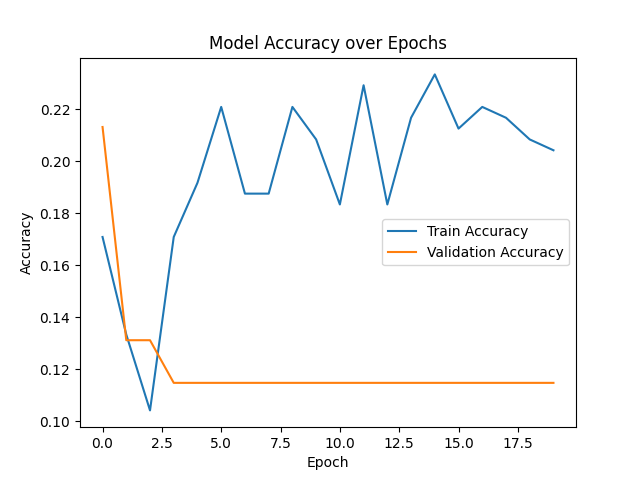
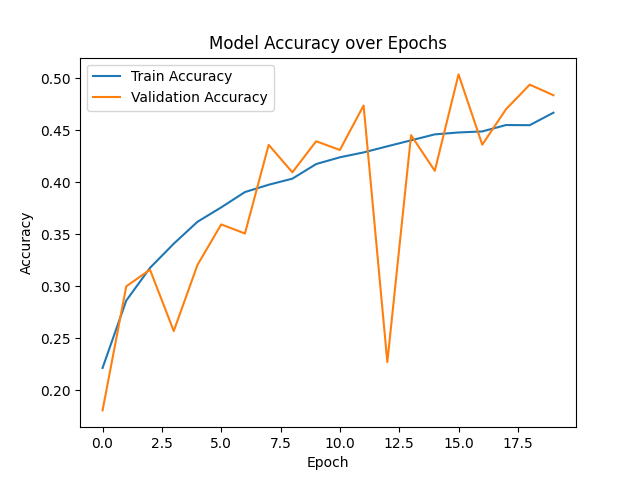
Update CNN

diff --git a/CNN/CNN_model.py b/CNN/CNN_model.py
@@ -88,43 +88,57 @@ def load_and_preprocess_data(base_path, window_size=50, step_size=25, max_len=10
 
 def build_cnn_model(input_shape):
     model = Sequential()
-    # First convolutional layer
+    # Adjust the number of input channels (features per timestep) in the first Conv1D layer
     model.add(Conv1D(filters=64, kernel_size=3, activation='relu', input_shape=input_shape))
     model.add(BatchNormalization())
     model.add(MaxPooling1D(pool_size=2))
     model.add(Dropout(0.2))
 
-    # Second convolutional layer
+    # Additional layers
     model.add(Conv1D(filters=128, kernel_size=3, activation='relu'))
     model.add(BatchNormalization())
     model.add(MaxPooling1D(pool_size=2))
     model.add(Dropout(0.3))
 
-    # Flatten and dense layers
     model.add(Flatten())
     model.add(Dense(100, activation='relu'))
     model.add(Dropout(0.4))
-    model.add(Dense(10, activation='softmax'))  # Assuming 10 classes for classification
+    model.add(Dense(10, activation='softmax'))  # Assuming 10 classes
 
     # Compile the model
     optimizer = Adam(learning_rate=0.001)
     model.compile(optimizer=optimizer, loss='sparse_categorical_crossentropy', metrics=['accuracy'])
     return model
 
-def train_model(data, labels,le):
+
+def train_model(data, labels, le):
+    # Split the data
     X_train, X_test, y_train, y_test = train_test_split(data, labels, test_size=0.2, random_state=42)
-    # Ensure data is in the correct shape for a 1D CNN (samples, time steps, features)
-    X_train = X_train.reshape((X_train.shape[0], X_train.shape[1], 1))  # Reshape for CNN, assuming each feature is a separate channel
-    X_test = X_test.reshape((X_test.shape[0], X_test.shape[1], 1))
     
-    model = build_cnn_model((X_train.shape[1], 1))  # Input shape is (time steps, features)
+    # Calculate the number of features
+    num_features = X_train.shape[1]  # Assuming the number of features is the second dimension of X_train
+    
+    print("Shape of X_train:", X_train.shape)
+    print("Shape of X_test:", X_test.shape)
+
+    # # Correctly reshape the data for a 1D CNN, assuming each feature is a separate channel
+    # X_train = X_train.reshape((X_train.shape[0], num_features, 1))
+    # X_test = X_test.reshape((X_test.shape[0], num_features, 1))
+    
+    # Build and train the model
+    model = build_cnn_model((num_features, 10))
     history = model.fit(X_train, y_train, epochs=20, validation_data=(X_test, y_test))
+    
+    # Print final accuracies for training and validation sets
     final_train_accuracy = history.history['accuracy'][-1]
     final_val_accuracy = history.history['val_accuracy'][-1]
-    print(f"Final Training Accuracy: {final_train_accuracy*100:.2f}%")
-    print(f"Final Validation Accuracy: {final_val_accuracy*100:.2f}%")
+    print(f"Final Training Accuracy: {final_train_accuracy * 100:.2f}%")
+    print(f"Final Validation Accuracy: {final_val_accuracy * 100:.2f}%")
+    
+    # Optional: Plot accuracy and confusion matrix
     plot_accuracy(history)
-    plot_confusion_matrix(model, X_test, y_test, le) 
+    plot_confusion_matrix(model, X_test, y_test, le)
+    
     return model, history
 
 def plot_accuracy(history):
